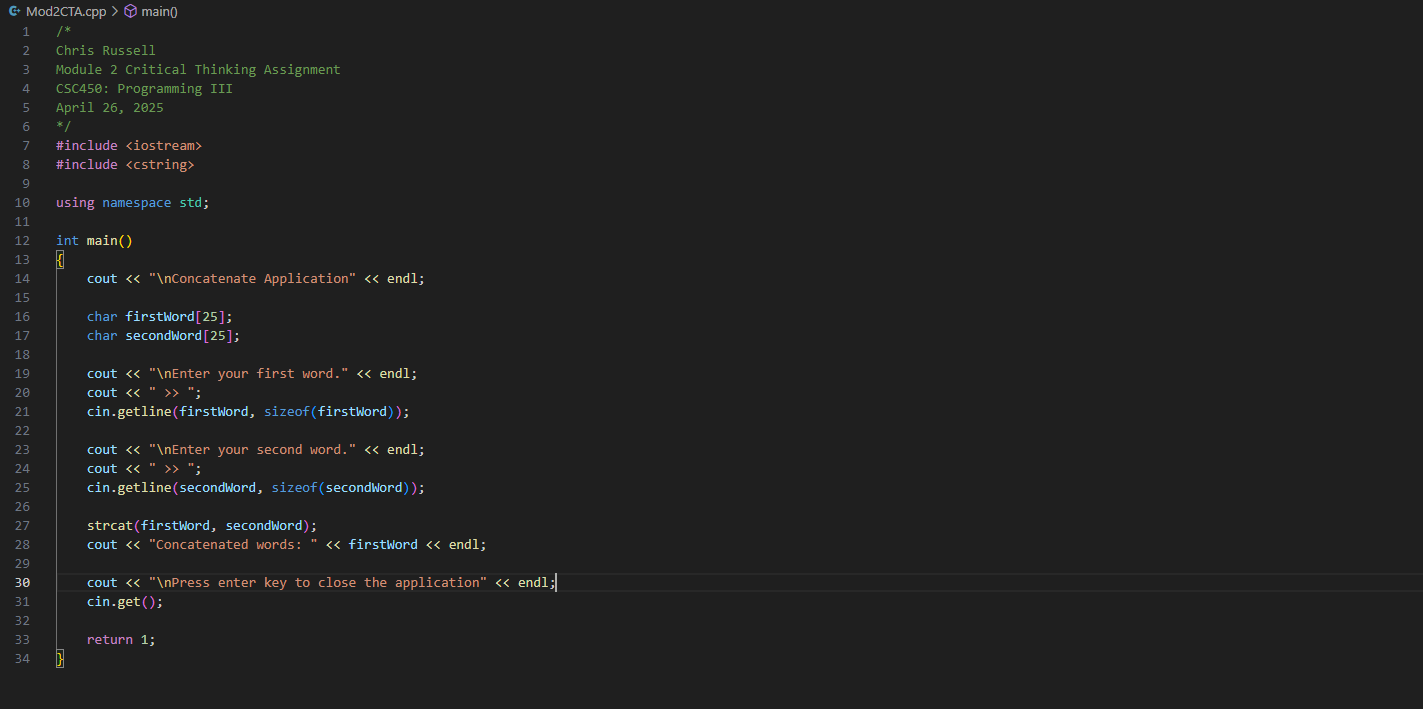
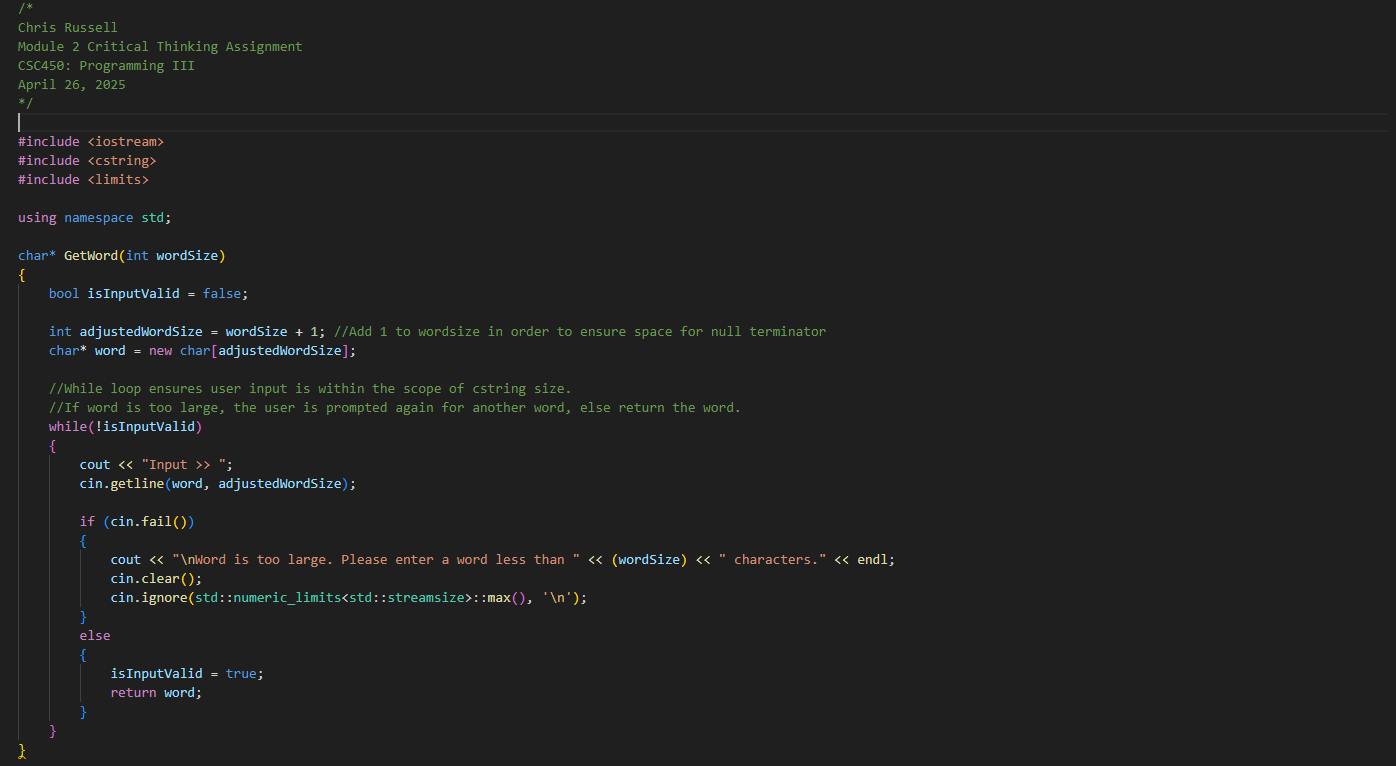
Add files via upload

diff --git a/Module 2/Mod2CTA.cpp b/Module 2/Mod2CTA.cpp
@@ -4,31 +4,71 @@ Module 2 Critical Thinking Assignment
 CSC450: Programming III
 April 26, 2025
 */
+
 #include <iostream>
 #include <cstring>
+#include <limits>
 
 using namespace std;
 
-int main()
+char* GetWord(int wordSize)
 {
-    cout << "\nConcatenate Application" << endl;
+    bool isInputValid = false;
 
-    char firstWord[25];
-    char secondWord[25];
+    int adjustedWordSize = wordSize + 1; //Add 1 to wordsize in order to ensure space for null terminator
+    char* word = new char[adjustedWordSize];
 
-    cout << "\nEnter your first word." << endl;
-    cout << " >> ";
-    cin.getline(firstWord, sizeof(firstWord));
+    //While loop ensures user input is within the scope of cstring size. 
+    //If word is too large, the user is prompted again for another word, else return the word.
+    while(!isInputValid)
+    {
+        cout << "Input >> ";
+        cin.getline(word, adjustedWordSize);
 
-    cout << "\nEnter your second word." << endl;
-    cout << " >> ";
-    cin.getline(secondWord, sizeof(secondWord));
+        if (cin.fail())
+        {
+            cout << "\nWord is too large. Please enter a word less than " << (wordSize) << " characters." << endl;
+            cin.clear();
+            cin.ignore(std::numeric_limits<std::streamsize>::max(), '\n'); 
+        }
+        else
+        {
+            isInputValid = true;
+            return word;
+        }
+    }
+}
+
+void ConcatenateWordsBySize(int wordSize)
+{
+    //Sets cstring to wordSize + 1 to ensure room for null terminator
+    char firstWord[wordSize + 1];
+    char secondWord[wordSize + 1];
+
+    cout << "\nEnter a word less than " << wordSize << " characters." << endl;
+    char* tempFirst = GetWord(wordSize);
+    strcpy(firstWord, tempFirst);
+    
+    cout << "\nEnter another word less than " << wordSize << " characters." << endl;
+    char* tempSecond = GetWord(wordSize);
+    strcpy(secondWord, tempSecond);
 
     strcat(firstWord, secondWord);
-    cout << "Concatenated words: " << firstWord << endl;
+    cout << "\nConcatenated words: " << firstWord << endl;
+}
+
+int main()
+{
+    cout << " >> ";
+    cout << "\nConcatenate Application" << endl;
+
+    //Call function to get two inputs from user for different sizes.
+    ConcatenateWordsBySize(4);
+    ConcatenateWordsBySize(7);
+    ConcatenateWordsBySize(11);
 
     cout << "\nPress enter key to close the application" << endl;
-    cin.get();
 
+    cin.get();
     return 1;
 }
